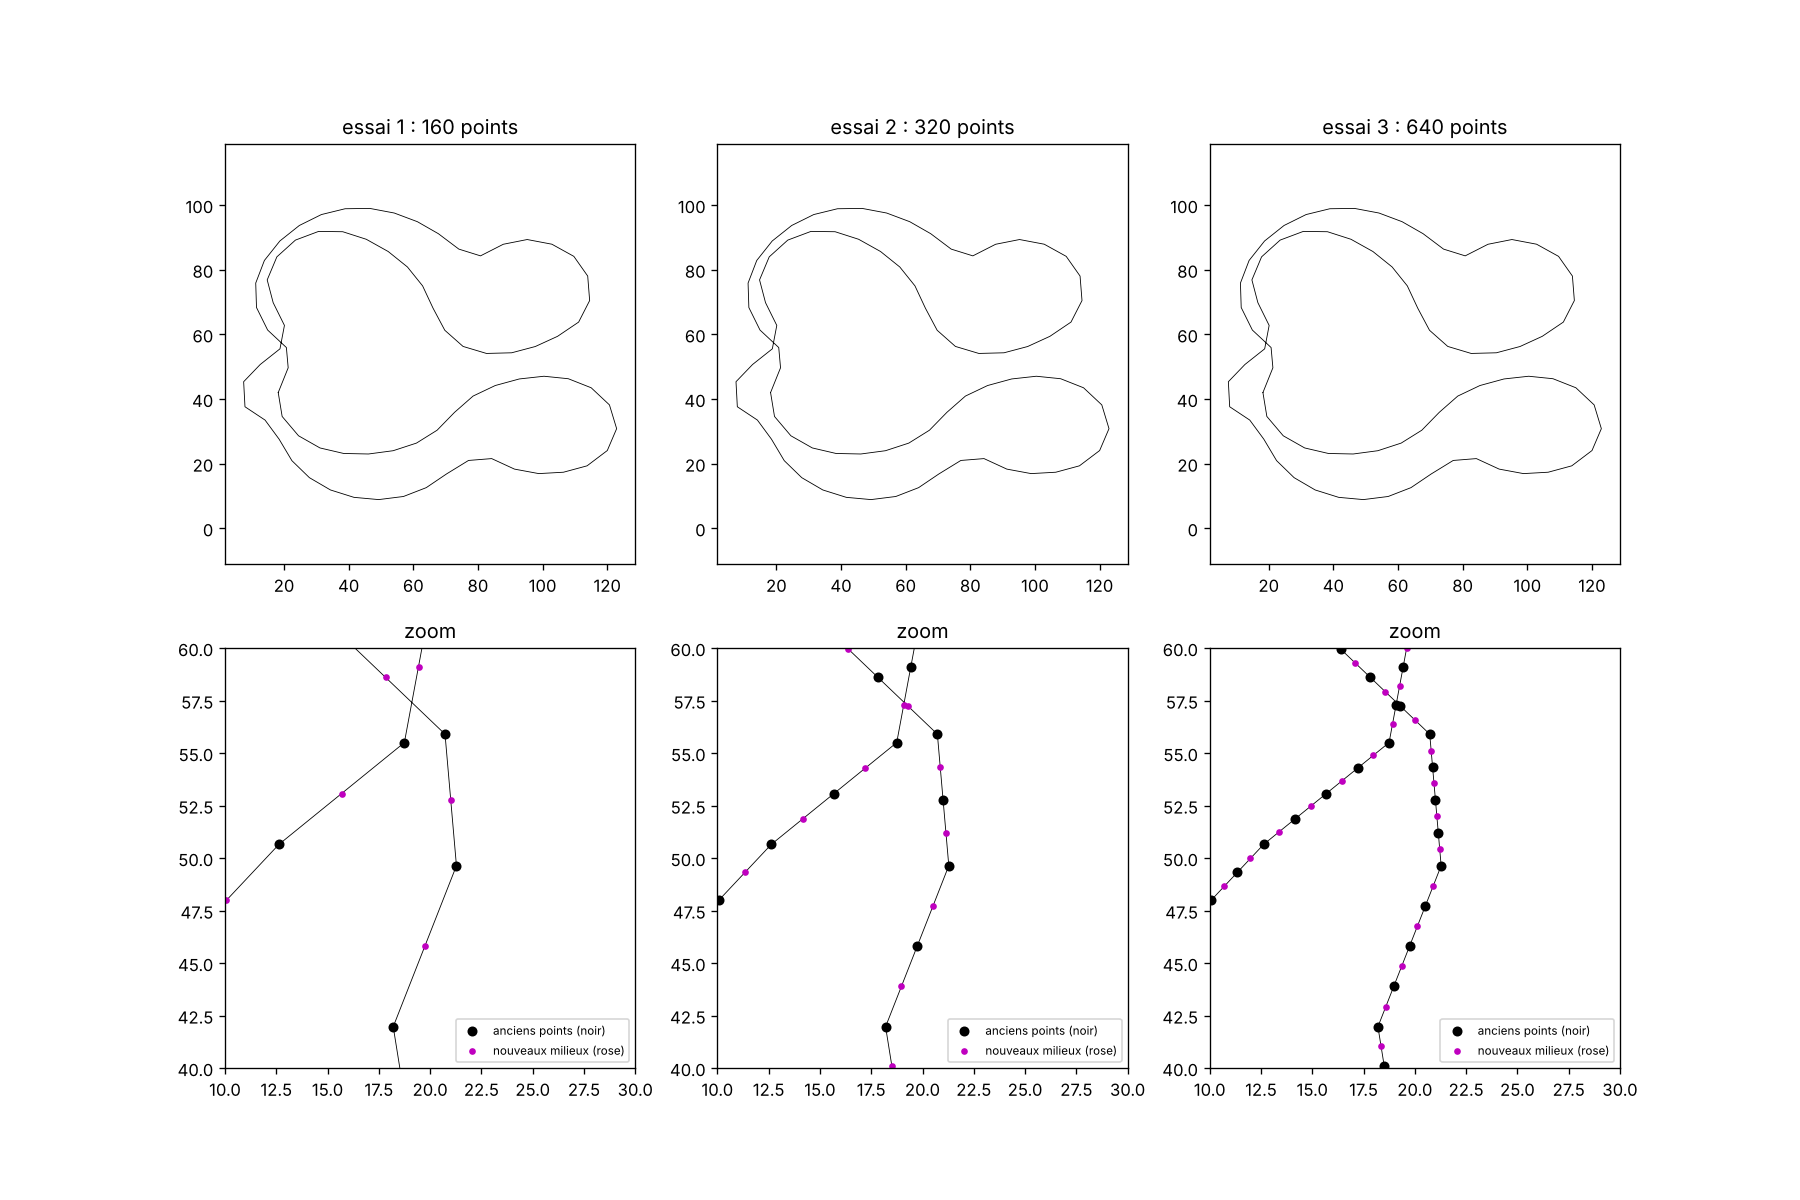
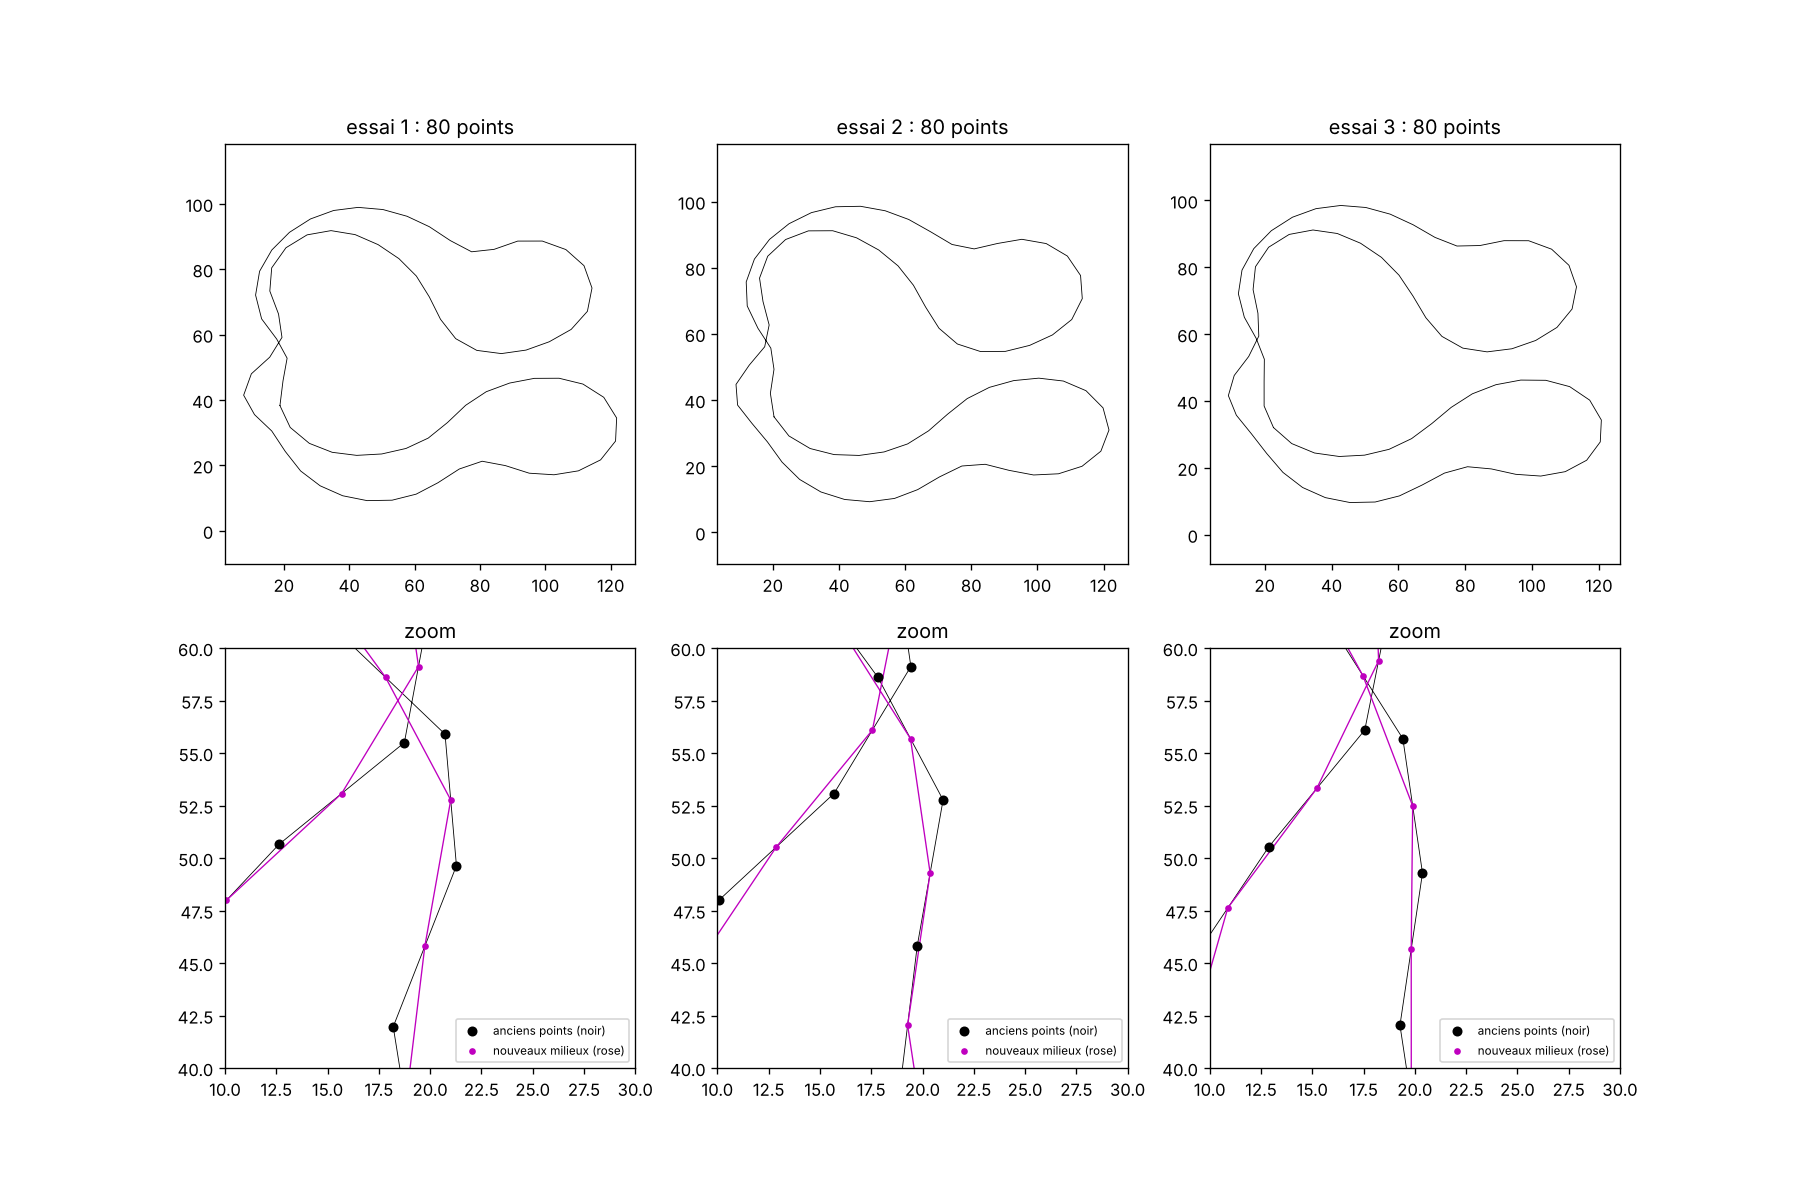
Milieux : on garde seulement les milieux (on saute les anciens points) pour adoucir les angles
Claude-Session: https://claude.ai/code/session_0147kh8MVWvFWbiMYdZNgHNL

diff --git a/tp_bspline_milieux.py b/tp_bspline_milieux.py
@@ -1,7 +1,9 @@
-# Méthode des points milieux
+# Méthode des points milieux (lissage des angles)
 # Idée : entre le point 1 et le point 2 je mets un point au milieu,
 # entre le point 2 et le point 3 aussi, etc.
-# Je garde tous les anciens points et j'ajoute les milieux : il y a de plus en plus de points.
+# Je ne garde QUE les milieux (je saute les anciens points) : les coins sont coupés
+# donc la courbe s'adoucit à chaque itération.
+# (Avant je gardais les anciens points en plus : la courbe ne changeait pas du tout.)
 import sys
 import matplotlib
 matplotlib.use("Agg")          # pour enregistrer l'image sans ouvrir de fenêtre
@@ -43,9 +45,7 @@ for essai in range(1, nb + 1):           # essai = 1, 2, ..., nb
         xm = (X[i] + X[j]) / 2           # milieu = moyenne des 2 points
         ym = (Y[i] + Y[j]) / 2
 
-        Xnew.append(X[i])                # d'abord le point de départ
-        Ynew.append(Y[i])
-        Xnew.append(xm)                  # puis le point du milieu juste après
+        Xnew.append(xm)                  # on garde seulement le milieu (l'ancien point saute)
         Ynew.append(ym)
         Xm.append(xm)
         Ym.append(ym)
@@ -59,7 +59,8 @@ for essai in range(1, nb + 1):           # essai = 1, 2, ..., nb
 
     # Ligne du bas : ZOOM sur une petite zone pour bien voir tous les points
     plt.subplot(2, nb, nb + essai)
-    plt.plot(Xnew + [Xnew[0]], Ynew + [Ynew[0]], "k-", linewidth=0.5)
+    plt.plot(X + [X[0]], Y + [Y[0]], "k-", linewidth=0.5)       # ancienne ligne (noir)
+    plt.plot(Xnew + [Xnew[0]], Ynew + [Ynew[0]], "m-", linewidth=0.8)  # nouvelle ligne (rose)
     plt.plot(X, Y, "ko", markersize=5, label="anciens points (noir)")
     plt.plot(Xm, Ym, "mo", markersize=3, label="nouveaux milieux (rose)")
     plt.legend(loc="lower right", fontsize=7)
